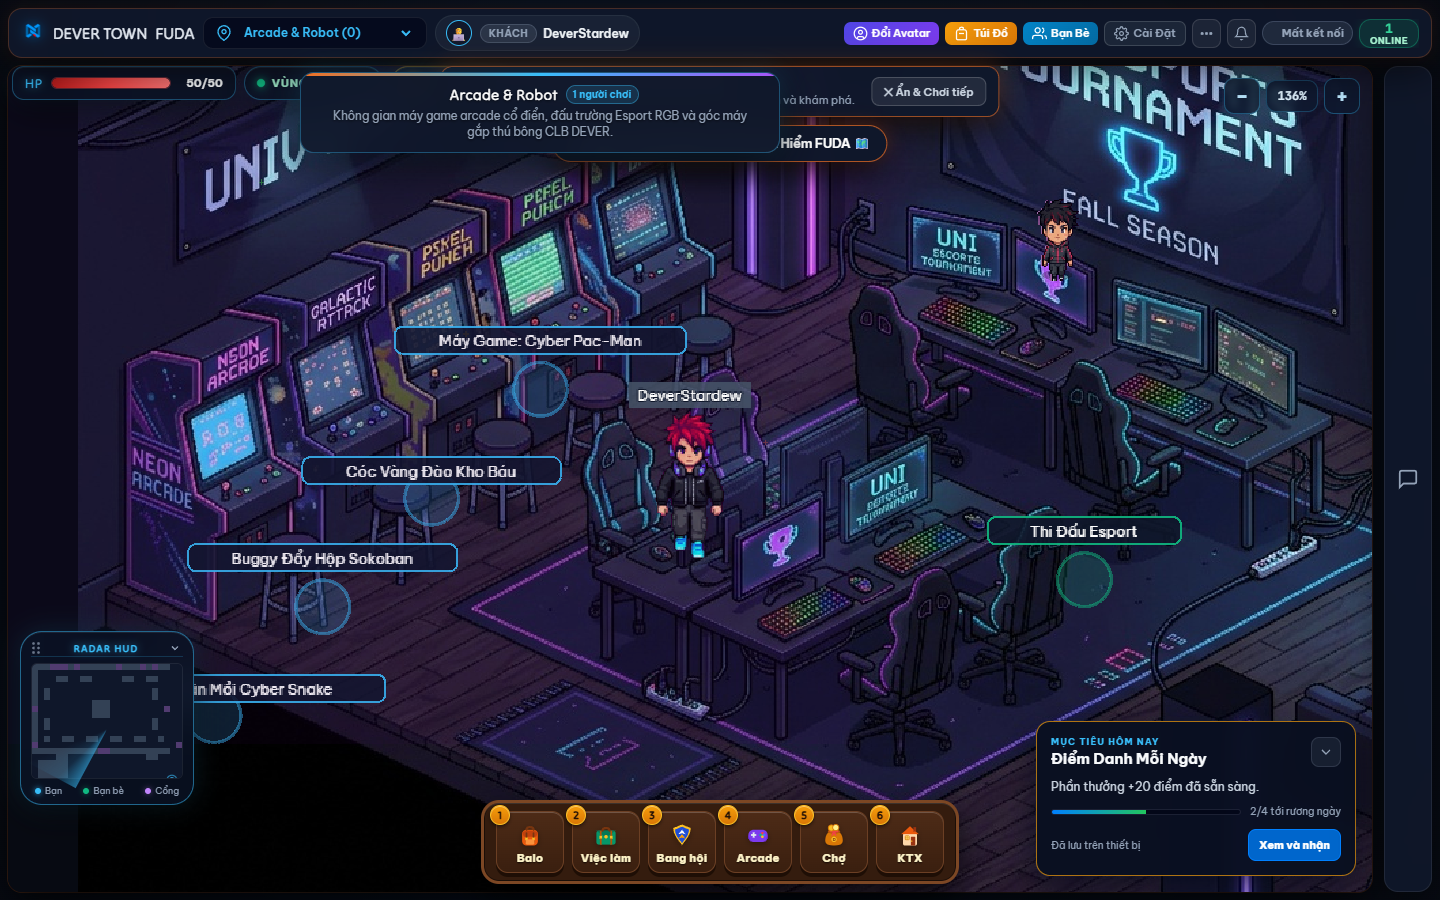
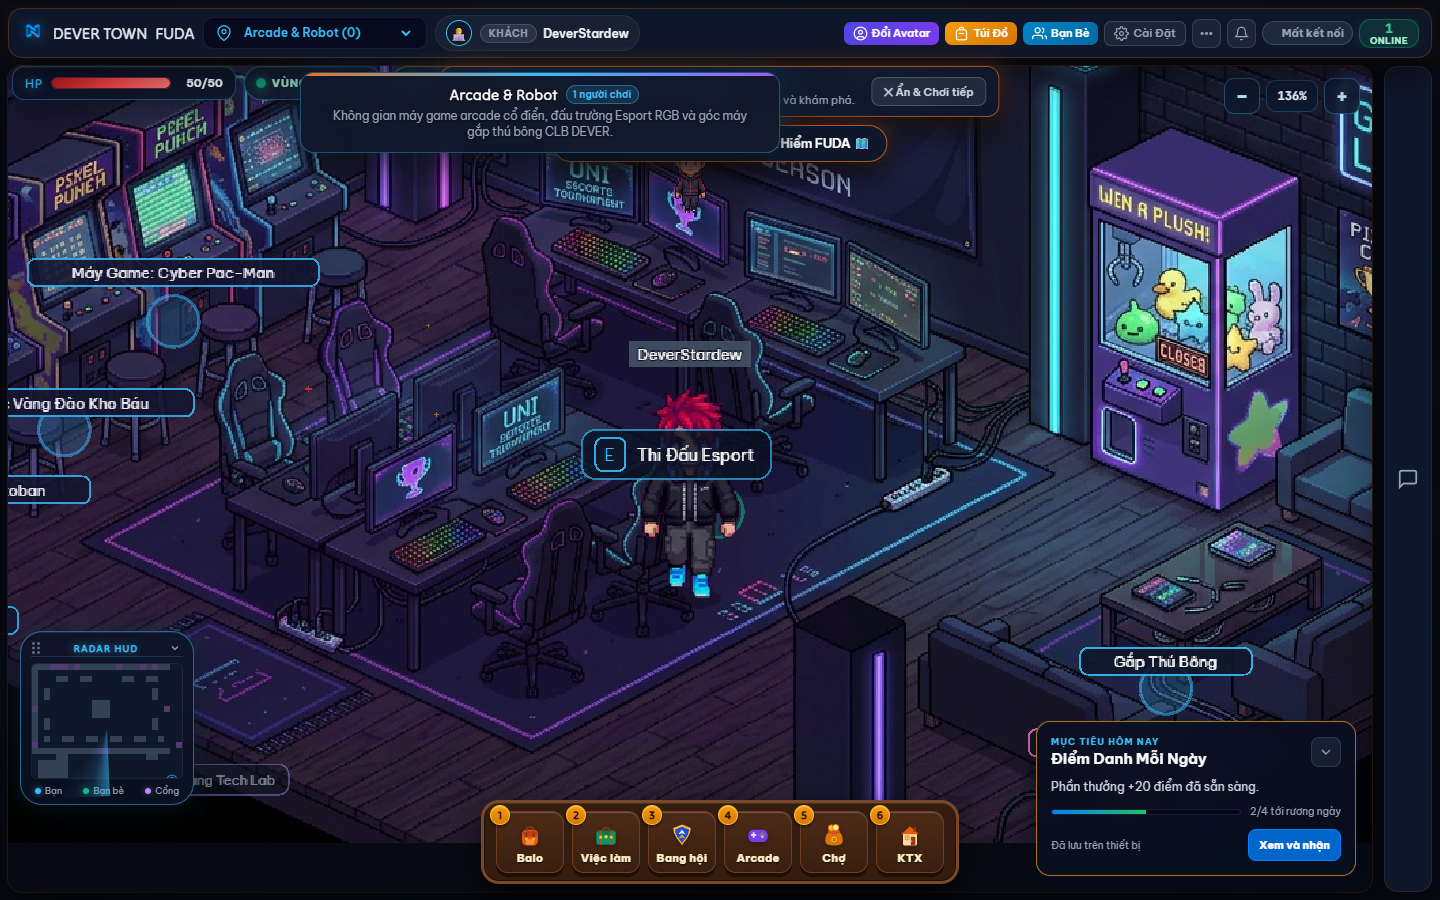
fix(characters-scale): finalize stardew characters to 128x192px frame (156-170px height) for perfect 1:1 room scale

diff --git a/src/entities/Player.js b/src/entities/Player.js
@@ -114,17 +114,17 @@ export class Player extends Phaser.GameObjects.Sprite {
     const isStardew = this.isStardewAvatar();
     return {
       isStardew,
-      feetY: isStardew ? 58 : 30,
-      nameTagY: isStardew ? -62 : -38,
-      speechY: isStardew ? -92 : -64,
-      shadowW: isStardew ? 34 : 22,
-      shadowH: isStardew ? 12 : 8,
-      bodyW: isStardew ? 32 : 24,
-      bodyH: isStardew ? 14 : 10,
-      bodyOffsetX: isStardew ? 32 : 12,
-      bodyOffsetY: isStardew ? 114 : 54,
-      equippedX: isStardew ? 26 : 18,
-      equippedY: isStardew ? -12 : -8
+      feetY: isStardew ? 88 : 30,
+      nameTagY: isStardew ? -92 : -38,
+      speechY: isStardew ? -128 : -64,
+      shadowW: isStardew ? 46 : 22,
+      shadowH: isStardew ? 16 : 8,
+      bodyW: isStardew ? 40 : 24,
+      bodyH: isStardew ? 18 : 10,
+      bodyOffsetX: isStardew ? 44 : 12,
+      bodyOffsetY: isStardew ? 166 : 54,
+      equippedX: isStardew ? 36 : 18,
+      equippedY: isStardew ? -14 : -8
     };
   }
 
@@ -591,7 +591,7 @@ export class Player extends Phaser.GameObjects.Sprite {
       if (this.currentDirection === 'up') {
         // Hướng quay vào bàn làm việc: giấu chân dưới gầm bàn / sau đệm ghế, hơi co lưng
         if (isStardew) {
-          this.setCrop(0, 0, 96, 104);
+          this.setCrop(0, 0, 128, 140);
           this.setScale(1, 0.94);
         } else {
           this.setCrop(0, 0, 48, 52);
@@ -600,7 +600,7 @@ export class Player extends Phaser.GameObjects.Sprite {
       } else {
         // Hướng quay ra ngoài / sofa: hạ nhẹ người, chân gập trên mặt ghế
         if (isStardew) {
-          this.setCrop(0, 0, 96, 114);
+          this.setCrop(0, 0, 128, 155);
           this.setScale(1, 0.92);
         } else {
           this.setCrop(0, 0, 48, 56);
@@ -611,7 +611,7 @@ export class Player extends Phaser.GameObjects.Sprite {
       // Thu nhỏ bóng dưới chân và nâng vị trí bóng khớp đáy ghế
       if (this.shadowEllipse) {
         this.shadowEllipse.setScale(0.5, 0.35);
-        this.shadowEllipse.setPosition(this.x, this.y + (isStardew ? 28 : 14));
+        this.shadowEllipse.setPosition(this.x, this.y + (isStardew ? 42 : 14));
       }
     } catch (e) {}
   }

diff --git a/src/scenes/BootScene.js b/src/scenes/BootScene.js
@@ -112,12 +112,12 @@ export class BootScene extends Phaser.Scene {
     this.load.image('map_sports_complex', 'devertown_sports_complex_v1.jpg');
     this.load.image('map_meeting_room', 'devertown_meeting_room_v1.jpg');
 
-    // 2I. Bộ Spritesheet Stardew Valley Anime Chibi HD Mới (96x128px frame — Chuẩn tỉ lệ nội thất phòng)
-    this.load.spritesheet('char_stardew_dev_hoodie', 'assets/characters/samples_v2/char_stardew_dev_hoodie.png', { frameWidth: 96, frameHeight: 128 });
-    this.load.spritesheet('char_stardew_fptu_polo', 'assets/characters/samples_v2/char_stardew_fptu_polo.png', { frameWidth: 96, frameHeight: 128 });
-    this.load.spritesheet('char_stardew_aodai', 'assets/characters/samples_v2/char_stardew_aodai.png', { frameWidth: 96, frameHeight: 128 });
-    this.load.spritesheet('char_stardew_wizard', 'assets/characters/samples_v2/char_stardew_wizard.png', { frameWidth: 96, frameHeight: 128 });
-    this.load.spritesheet('char_stardew_cyber', 'assets/characters/samples_v2/char_stardew_cyber.png', { frameWidth: 96, frameHeight: 128 });
+    // 2I. Bộ Spritesheet Stardew Valley Anime Chibi HD Mới (128x192px frame — Chuẩn tỉ lệ 1:1 với nội thất phòng)
+    this.load.spritesheet('char_stardew_dev_hoodie', 'assets/characters/samples_v2/char_stardew_dev_hoodie.png', { frameWidth: 128, frameHeight: 192 });
+    this.load.spritesheet('char_stardew_fptu_polo', 'assets/characters/samples_v2/char_stardew_fptu_polo.png', { frameWidth: 128, frameHeight: 192 });
+    this.load.spritesheet('char_stardew_aodai', 'assets/characters/samples_v2/char_stardew_aodai.png', { frameWidth: 128, frameHeight: 192 });
+    this.load.spritesheet('char_stardew_wizard', 'assets/characters/samples_v2/char_stardew_wizard.png', { frameWidth: 128, frameHeight: 192 });
+    this.load.spritesheet('char_stardew_cyber', 'assets/characters/samples_v2/char_stardew_cyber.png', { frameWidth: 128, frameHeight: 192 });
 
   }
 

diff --git a/src/entities/RemotePlayer.js b/src/entities/RemotePlayer.js
@@ -76,13 +76,13 @@ export class RemotePlayer extends Phaser.GameObjects.Sprite {
     const isStardew = this.isStardewAvatar();
     return {
       isStardew,
-      feetY: isStardew ? 58 : 30,
-      nameTagY: isStardew ? -62 : -38,
-      speechY: isStardew ? -92 : -52,
-      shadowW: isStardew ? 34 : 22,
-      shadowH: isStardew ? 12 : 8,
-      equippedX: isStardew ? 22 : 14,
-      equippedY: isStardew ? -12 : -8
+      feetY: isStardew ? 88 : 30,
+      nameTagY: isStardew ? -92 : -38,
+      speechY: isStardew ? -128 : -52,
+      shadowW: isStardew ? 46 : 22,
+      shadowH: isStardew ? 16 : 8,
+      equippedX: isStardew ? 36 : 14,
+      equippedY: isStardew ? -14 : -8
     };
   }
 

diff --git a/scripts/build_stardew_spritesheets.py b/scripts/build_stardew_spritesheets.py
@@ -13,7 +13,7 @@ SHEETS = [
     'rows': 4,
     'select_cols': [0, 1, 2, 3],
     'mirror_row2': True,
-    'target_h': 108
+    'target_h': 156
   },
   {
     'name': 'char_stardew_fptu_polo',
@@ -22,7 +22,7 @@ SHEETS = [
     'rows': 4,
     'select_cols': [0, 1, 2, 3],
     'mirror_row2': True,
-    'target_h': 108
+    'target_h': 156
   },
   {
     'name': 'char_stardew_aodai',
@@ -31,7 +31,7 @@ SHEETS = [
     'rows': 4,
     'select_cols': [0, 1, 2, 3],
     'mirror_row2': True,
-    'target_h': 108
+    'target_h': 156
   },
   {
     'name': 'char_stardew_wizard',
@@ -40,7 +40,7 @@ SHEETS = [
     'rows': 4,
     'select_cols': [0, 1, 2, 3],
     'mirror_row2': True,
-    'target_h': 116
+    'target_h': 170
   },
   {
     'name': 'char_stardew_cyber',
@@ -49,15 +49,15 @@ SHEETS = [
     'rows': 4,
     'select_cols': [0, 1, 2, 3],
     'mirror_row2': True,
-    'target_h': 108
+    'target_h': 156
   }
 ]
 
-FRAME_W = 96
-FRAME_H = 128
-SHEET_W = FRAME_W * 4  # 384
-SHEET_H = FRAME_H * 4  # 512
-FEET_Y = 122  # Leaves 6px bottom floor margin
+FRAME_W = 128
+FRAME_H = 192
+SHEET_W = FRAME_W * 4  # 512
+SHEET_H = FRAME_H * 4  # 768
+FEET_Y = 184  # Leaves 8px bottom floor margin
 
 def is_magenta(r, g, b):
     if r > 160 and b > 160 and g < 90:
